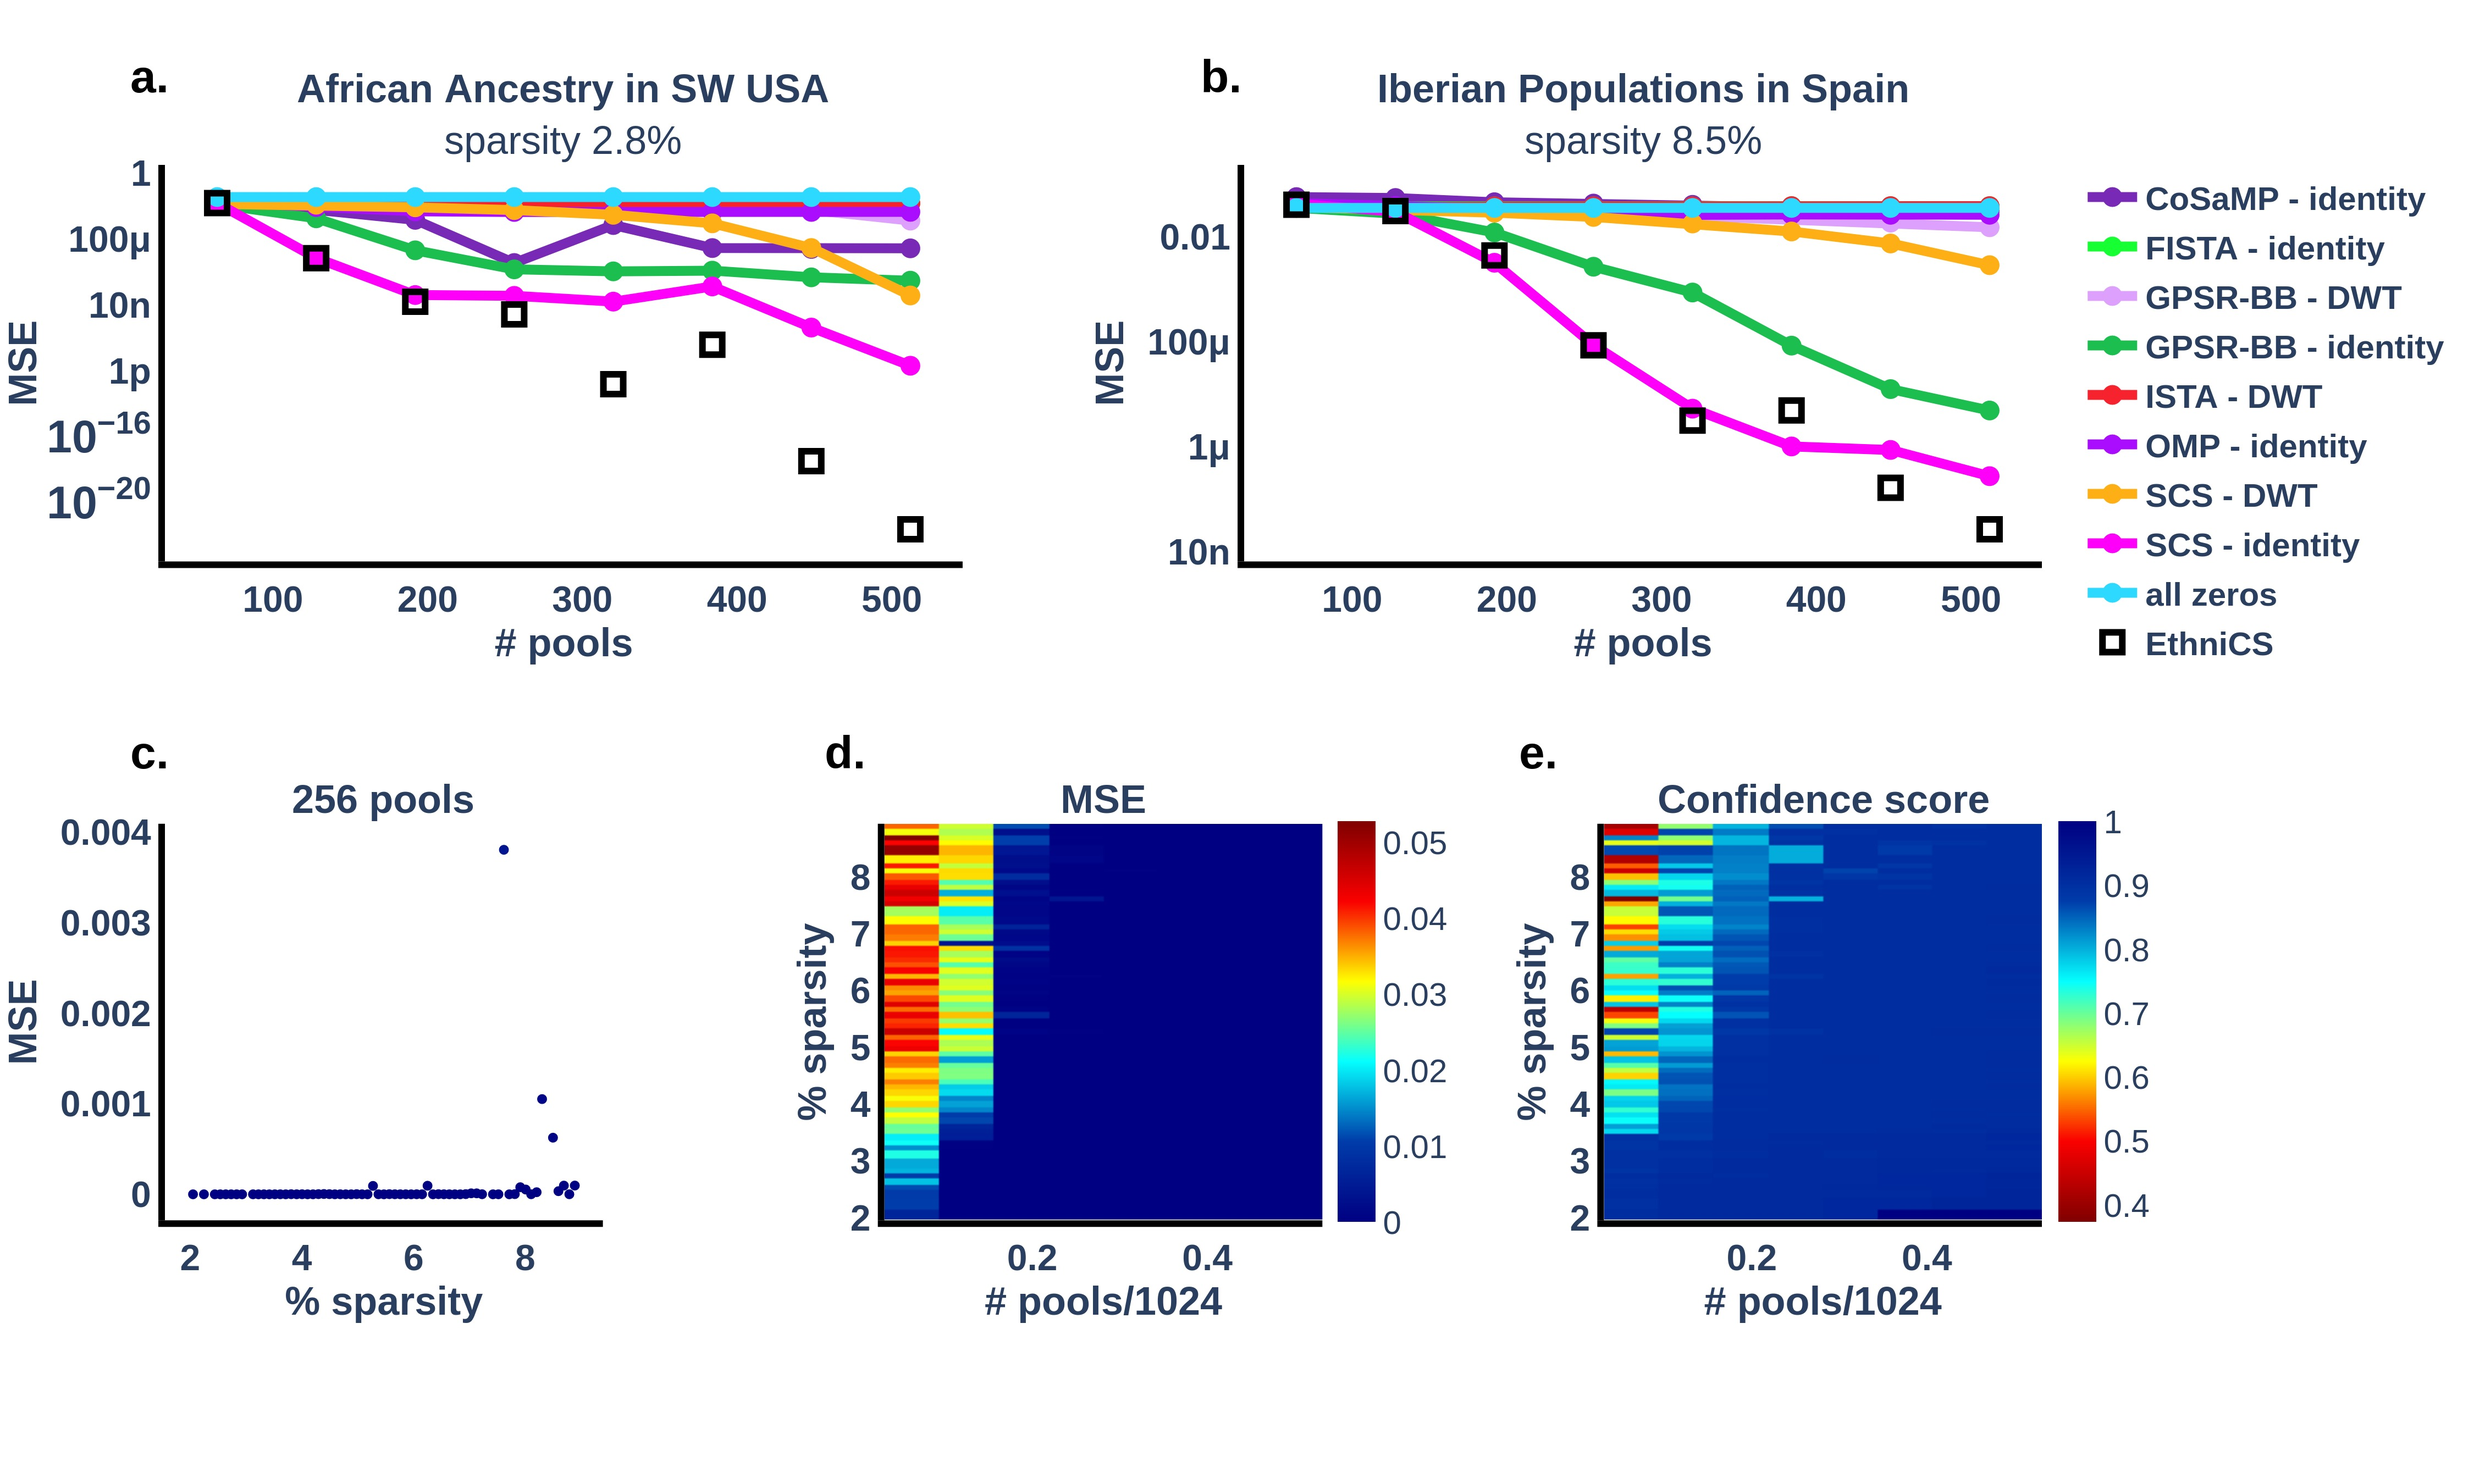
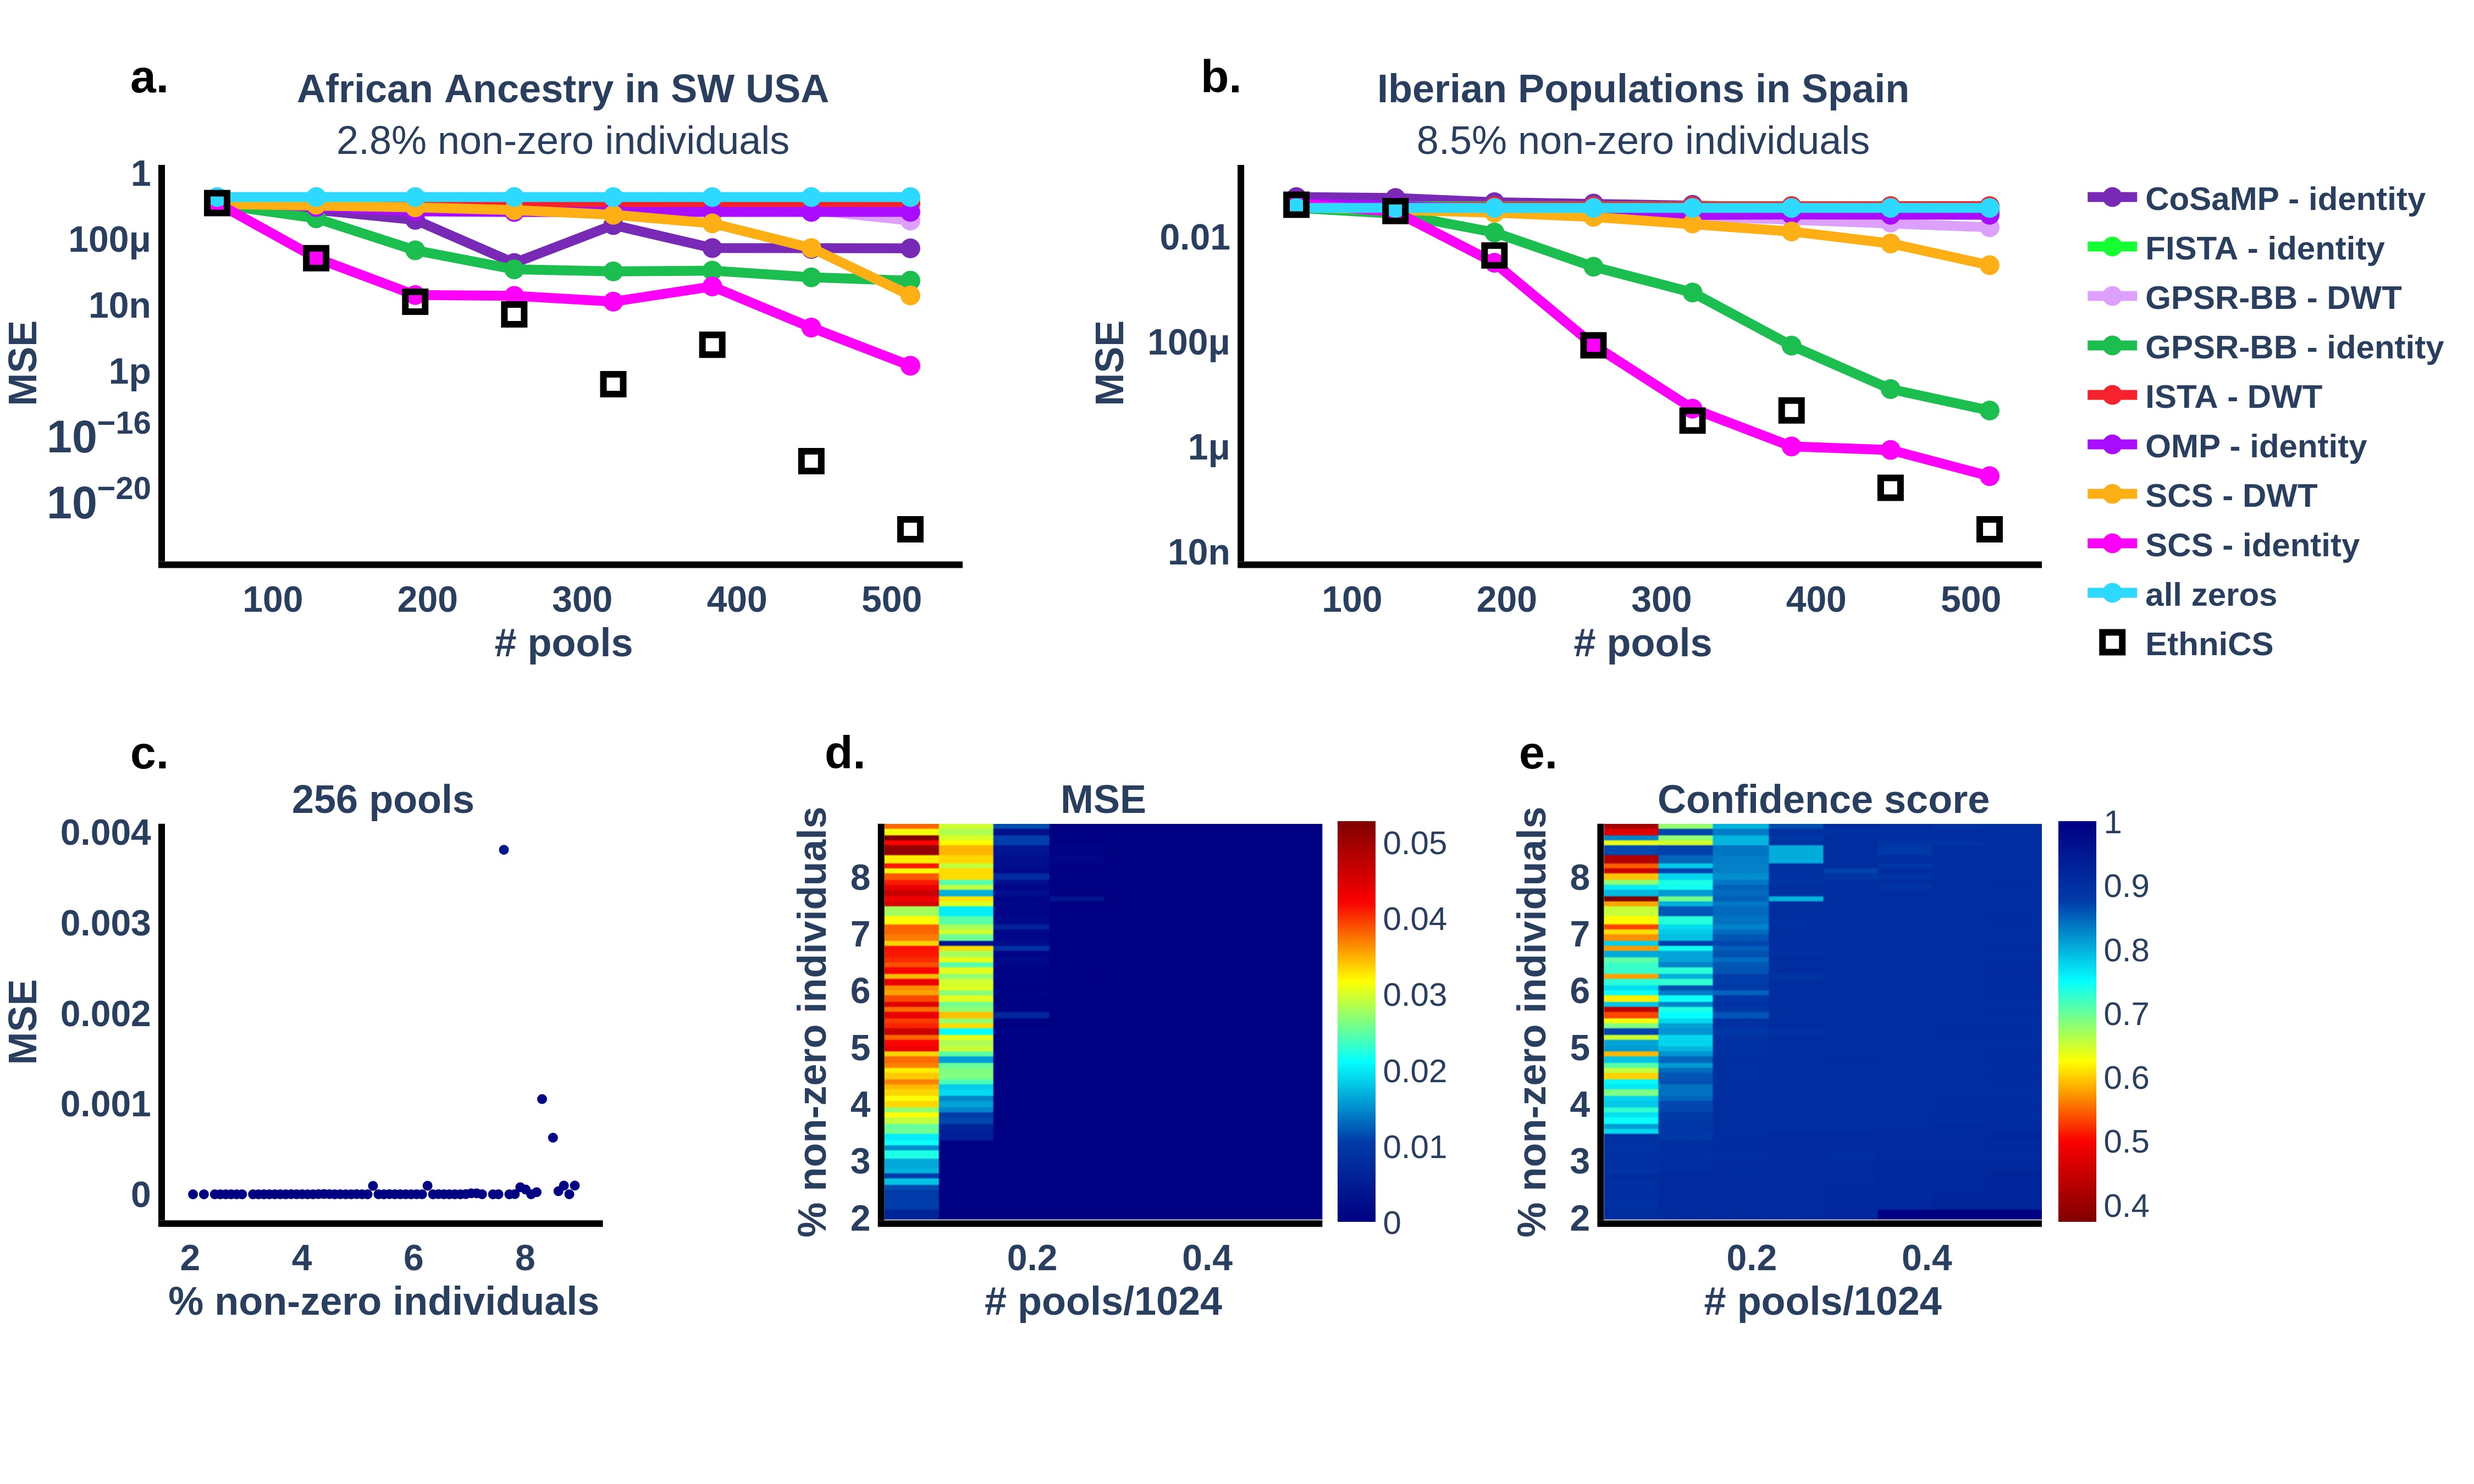
update charts

diff --git a/EthniCS/services/graphics/render_experiments_charts.py b/EthniCS/services/graphics/render_experiments_charts.py
@@ -39,7 +39,7 @@ def render_solver_by_pools(fig, row, col, df, metric, sparsity_ratio=None, ethni
     sparsity_text = ""
     if ethnicity_num is not None:
         avg_sparsity = df[df.ethnicity_num == ethnicity_num]["original_sparsity_ratio"].mean()
-        sparsity_text = f"sparsity {round(avg_sparsity * 100, 1)}%"
+        sparsity_text = f"{round(avg_sparsity * 100, 1)}% non-zero individuals"
 
     temp_df = df[(df.name.isin(list(supported_solvers.keys()))) & ((df.name == "all zeros") | (df.original_sparsity_ratio == sparsity_ratio if sparsity_ratio is not None else df.ethnicity_num == ethnicity_num))].groupby(["name", "num_of_pools"]).mean().reset_index()
     fig1 = px.line(temp_df, x="num_of_pools", y=metric, color="name", markers=True, color_discrete_map=solver_to_color, log_y=log_y)
@@ -173,14 +173,14 @@ def render_subplot_layout(metric, subplot_titles, log_y1=True, log_y2=True, titl
     fig["layout"]["yaxis2"]["title"] = f"<b>{metric.upper()}</b>"
     fig["layout"]["yaxis2"]["type"] = "log" if log_y2 else fig["layout"]["yaxis2"]["type"]
 
-    fig["layout"]["xaxis5"]["title"] = "<b>% sparsity</b>"
+    fig["layout"]["xaxis5"]["title"] = "<b>% non-zero individuals</b>"
     fig["layout"]["yaxis5"]["title"] = f"<b>{metric.upper()}</b>"
 
     fig["layout"]["xaxis6"]["title"] = "<b># pools/1024</b>"
-    fig["layout"]["yaxis6"]["title"] = "<b>% sparsity</b>"
+    fig["layout"]["yaxis6"]["title"] = "<b>% non-zero individuals</b>"
 
     fig["layout"]["xaxis7"]["title"] = "<b># pools/1024</b>"
-    fig["layout"]["yaxis7"]["title"] = "<b>% sparsity</b>"
+    fig["layout"]["yaxis7"]["title"] = "<b>% non-zero individuals</b>"
 
     fig.update_xaxes(showline=True, linewidth=4, linecolor="black", tickfont=dict(size=22), tickprefix="<b>", ticksuffix="</b>", title_standoff=0)
     fig.update_yaxes(showline=True, linewidth=4, linecolor="black", tickfont=dict(size=22), tickprefix="<b>", ticksuffix="</b>", title_standoff=0)
@@ -218,7 +218,7 @@ def render_subplot_layout(metric, subplot_titles, log_y1=True, log_y2=True, titl
 def render_by_sparse_level(df, metric, sparsity_ratio1, sparsity_ratio2, num_of_pools, log_y1=True, log_y2=True, title_text="", n=1024):
     sparsity_prec1 = int(sparsity_ratio1 * 100)
     sparsity_prec2 = int(sparsity_ratio2 * 100)
-    subplot_titles = (f"~{sparsity_prec1}% non-zero elements", f"~{sparsity_prec2}% non-zero elements", "", "", f"{num_of_pools} pools", "MSE", "confidence score", "", "", "")
+    subplot_titles = (f"~{sparsity_prec1}% non-zero individuals", f"~{sparsity_prec2}% non-zero individuals", "", "", f"{num_of_pools} pools", "MSE", "confidence score", "", "", "")
 
     fig = render_subplot_layout(metric, subplot_titles, log_y1, log_y2, title_text)
 
